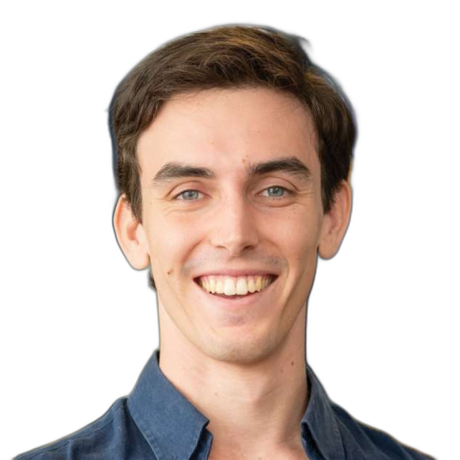
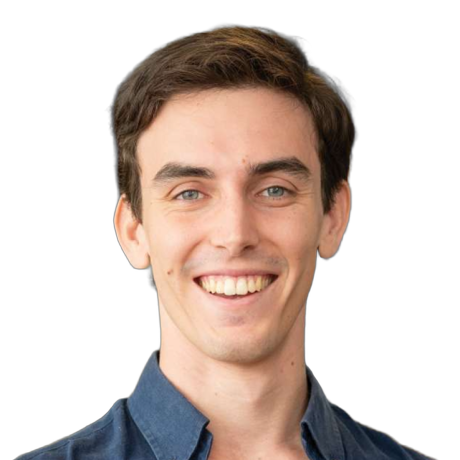
Drop photo circle frame, re-cut bg with BiRefNet portrait model + alpha matting

diff --git a/index.html b/index.html
@@ -1139,12 +1139,10 @@
         align-items: center;
       }
       .team-photo {
-        width: 200px;
-        height: 200px;
-        border-radius: 50%;
-        object-fit: cover;
-        border: 3px solid var(--border2);
-        box-shadow: 0 16px 48px rgba(0, 0, 0, 0.4);
+        width: 220px;
+        height: 220px;
+        object-fit: contain;
+        filter: drop-shadow(0 16px 32px rgba(0, 0, 0, 0.45));
       }
       .team-about h2 {
         font-size: 28px;